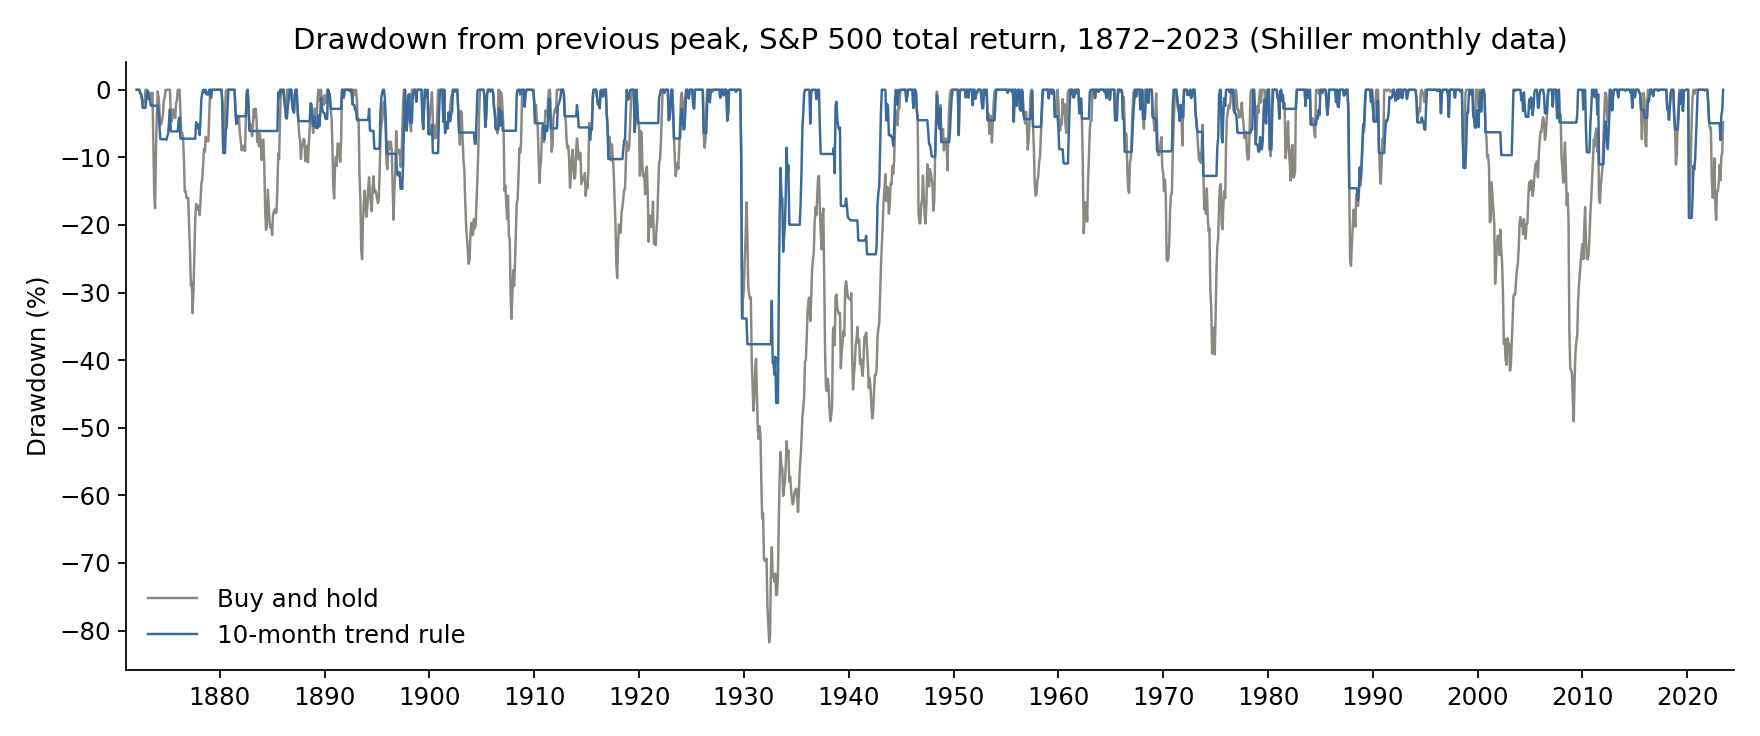
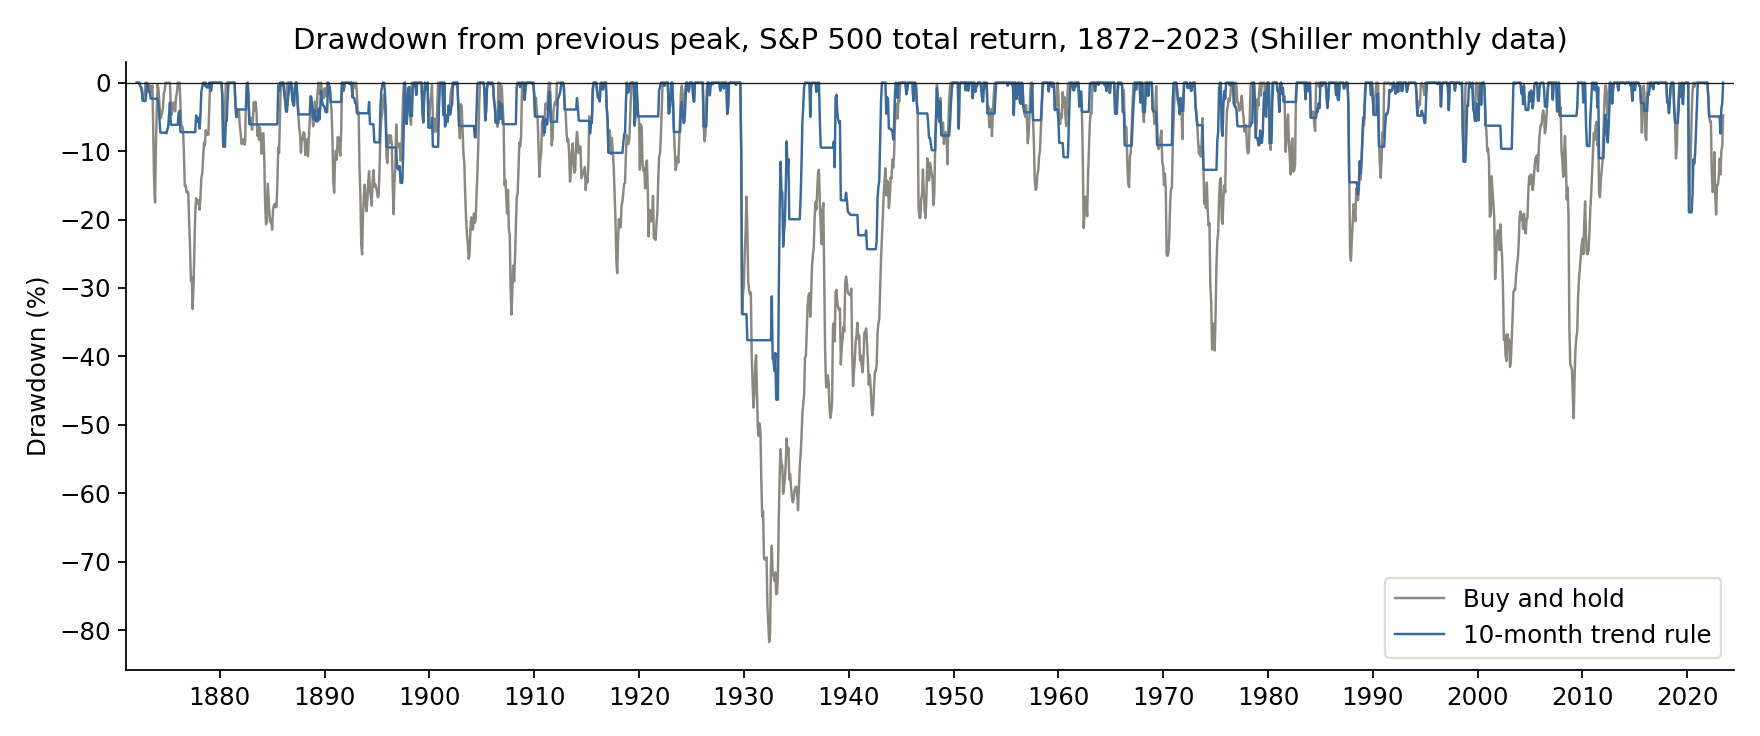
chart and code

diff --git a/src/trendoos/pipeline.py b/src/trendoos/pipeline.py
@@ -230,7 +230,9 @@ def _figures(cfg: Cfg, sh_bt: pd.DataFrame, bt: pd.DataFrame, yr: pd.DataFrame, 
         eq = (1 + sh_bt[col]).cumprod()
         ax.plot(t, (eq / eq.cummax() - 1) * 100, color=c, lw=1.1, label=lab)
     ax.set_title("Drawdown from previous peak, S&P 500 total return, 1872–2023 (Shiller monthly data)")
-    ax.set_ylabel("Drawdown (%)"); _years_axis(ax, 10); ax.set_xlim(t[0] - 1, t[-1] + 1); ax.legend(loc="lower left", frameon=False)
+    ax.set_ylabel("Drawdown (%)"); _years_axis(ax, 10); ax.set_xlim(t[0] - 1, t[-1] + 1)
+    ax.set_ylim(top=3); ax.axhline(0, color="#1A1A1F", lw=0.6)
+    ax.legend(loc="lower right", frameon=True, facecolor="white", edgecolor="#DDD9CE", framealpha=0.95)
     fig.tight_layout(); fig.savefig(fig_dir / "drawdowns_150y.png", dpi=160); plt.close(fig)
 
     # 2. The averaging illusion (SPY 1997+): Sharpe by price view
